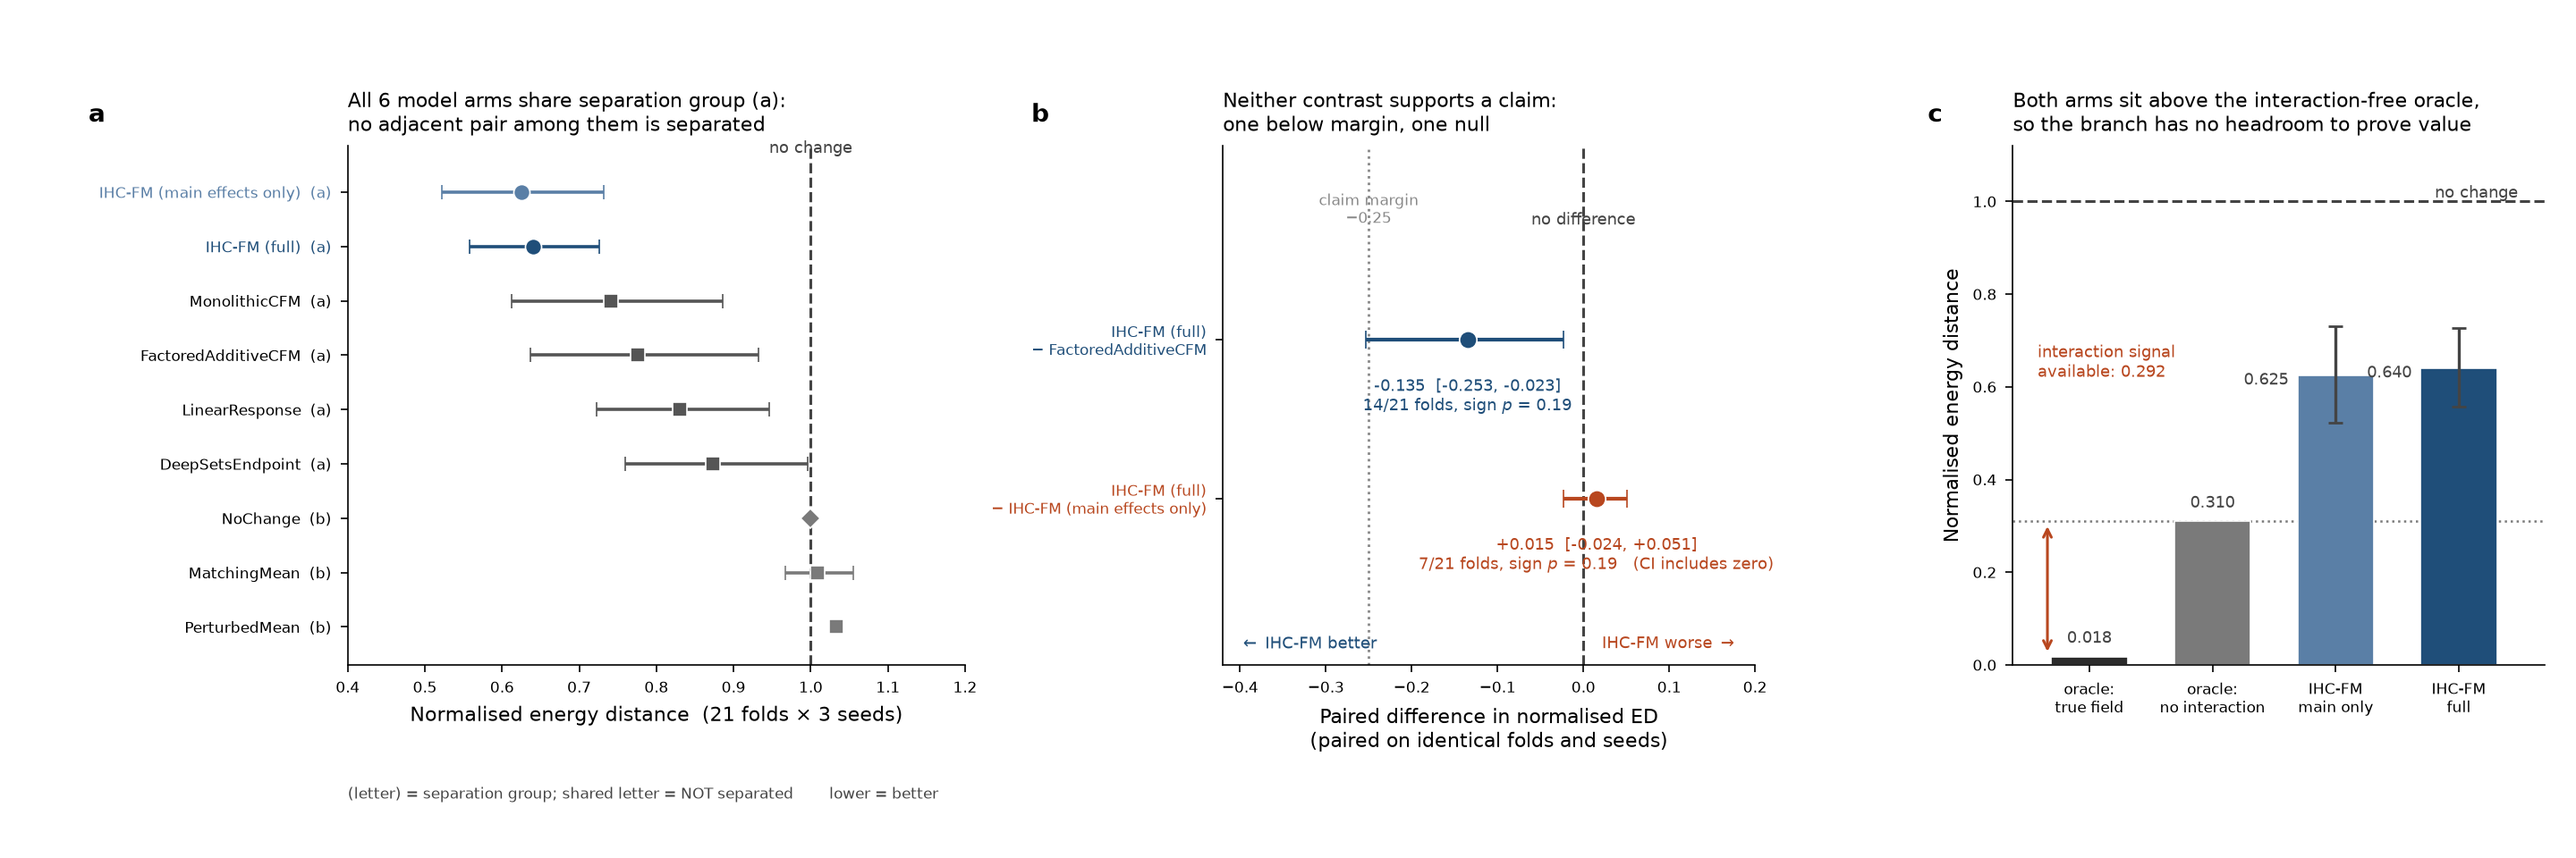
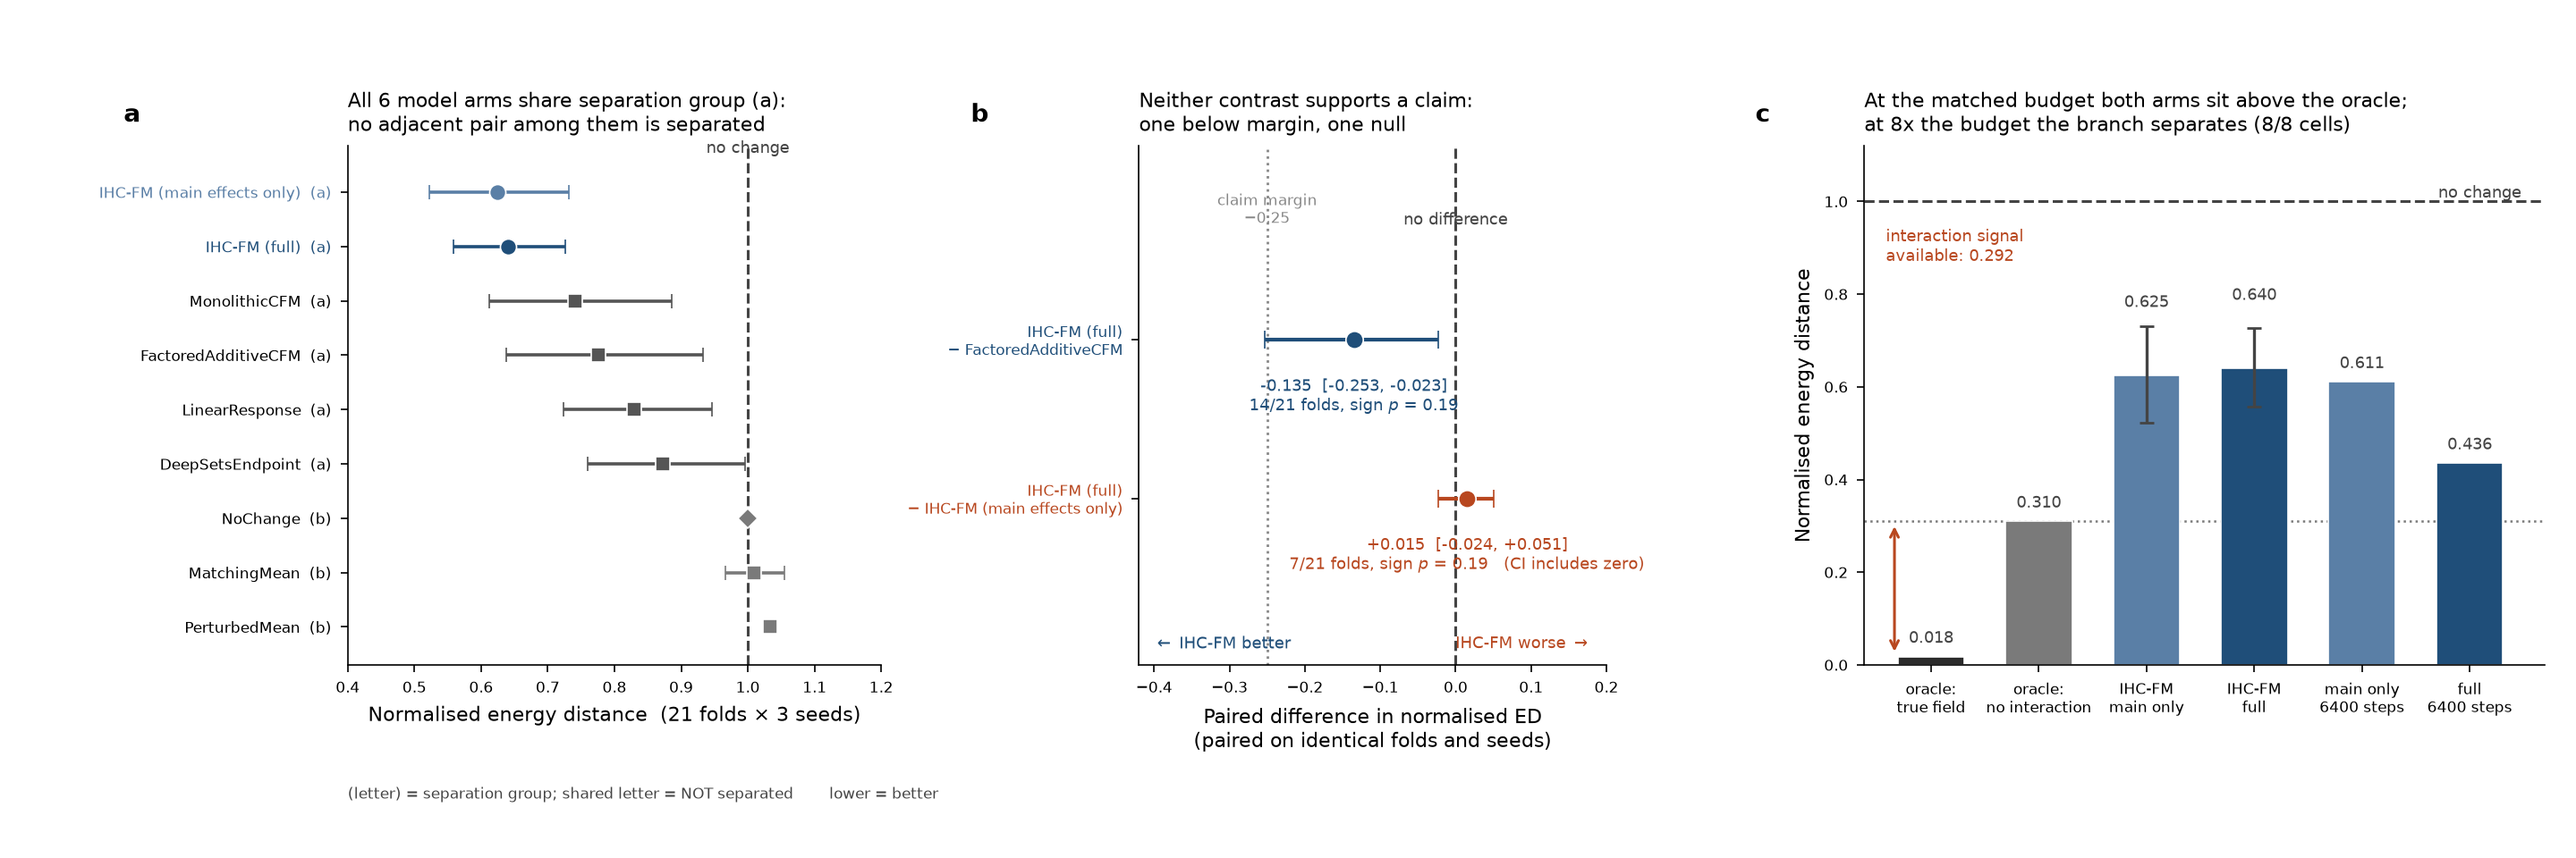
Fig 2 panel c: add the 6400-step arms so the panel shows the resolution rather than the superseded 'no headroom' reading; 0 label overlaps

diff --git a/experiments/make_fig2.py b/experiments/make_fig2.py
@@ -172,6 +172,16 @@ def panel_c(ax, T) -> None:
         ("IHC-FM\nfull", rows["ihcfm_full"]["mean_normalised_ed"], FOCAL,
          (rows["ihcfm_full"]["ci_lo"], rows["ihcfm_full"]["ci_hi"])),
     ]
+    # The step-budget sweep (experiments/step_sweep.py) resolves this null: at 8x the
+    # matched budget the full arm separates from the ablation on 8/8 fold-seed cells. Those
+    # two bars are appended so the panel shows the resolution, not the superseded reading.
+    with open(os.path.join(HERE, "results", "step_sweep_summary.json")) as _f:
+        _ss = json.load(_f)
+    _b = _ss["6400"]
+    bars = bars + [
+        ("main only\n6400 steps", _b["main_only"], bars[2][2], None),
+        ("full\n6400 steps", _b["full"], bars[3][2], None),
+    ]
     x = np.arange(len(bars), dtype=float)
     for xx, (lab, v, col, ci) in zip(x, bars):
         ax.bar([xx], [v], width=0.62, color=col, edgecolor="white", linewidth=0.6,
@@ -183,9 +193,9 @@ def panel_c(ax, T) -> None:
         # Offset the value label sideways on bars that carry an error bar, so the text
         # does not sit behind the whisker.
         ax.annotate(f"{v:.3f}", (xx, v), textcoords="offset points",
-                    xytext=((-19, -2) if ci is not None else (0, 4)),
-                    ha=("right" if ci is not None else "center"),
-                    va=("center" if ci is not None else "bottom"),
+                    xytext=((0, 26) if ci is not None else (0, 4)),
+                    ha="center",
+                    va="bottom",
                     fontsize=6.5, color=NEUTRAL)
     # The interaction signal that EXISTS on this benchmark: the gap between the two
     # oracles. The models sit above both, which is the whole diagnosis.
@@ -194,7 +204,7 @@ def panel_c(ax, T) -> None:
                 arrowprops=dict(arrowstyle="<->", color=ALARM, lw=1.1))
     # Label placed in the empty band above the two oracle bars, clear of both the
     # interaction-free reference line and the bar value annotations.
-    ax.text(-0.42, hi + 0.30,
+    ax.text(-0.42, 0.86,
             f"interaction signal\navailable: "
             f"{orc['interaction_worth_normalised_ed']:.3f}",
             fontsize=6.5, color=ALARM, ha="left", va="bottom")
@@ -207,13 +217,13 @@ def panel_c(ax, T) -> None:
     ax.set_xlim(-0.62, len(bars) - 0.30)
     ax.set_ylim(0, 1.12)
     ax.set_ylabel("Normalised energy distance")
-    ax.set_title("Both arms sit above the interaction-free oracle,\n"
-                 "so the branch has no headroom to prove value", loc="left")
+    ax.set_title("At the matched budget both arms sit above the oracle;\n"
+                 "at 8x the budget the branch separates (8/8 cells)", loc="left")
 
 
 def build(T) -> mpl.figure.Figure:
     fig = plt.figure(figsize=(14.4, 4.8))
-    gs = fig.add_gridspec(1, 3, width_ratios=[1.16, 1.0, 1.0], wspace=0.46,
+    gs = fig.add_gridspec(1, 3, width_ratios=[1.05, 0.92, 1.34], wspace=0.46,
                           left=0.135, right=0.988, top=0.830, bottom=0.225)
     axes = [fig.add_subplot(gs[0, i]) for i in range(3)]
     panel_a(axes[0], T)
